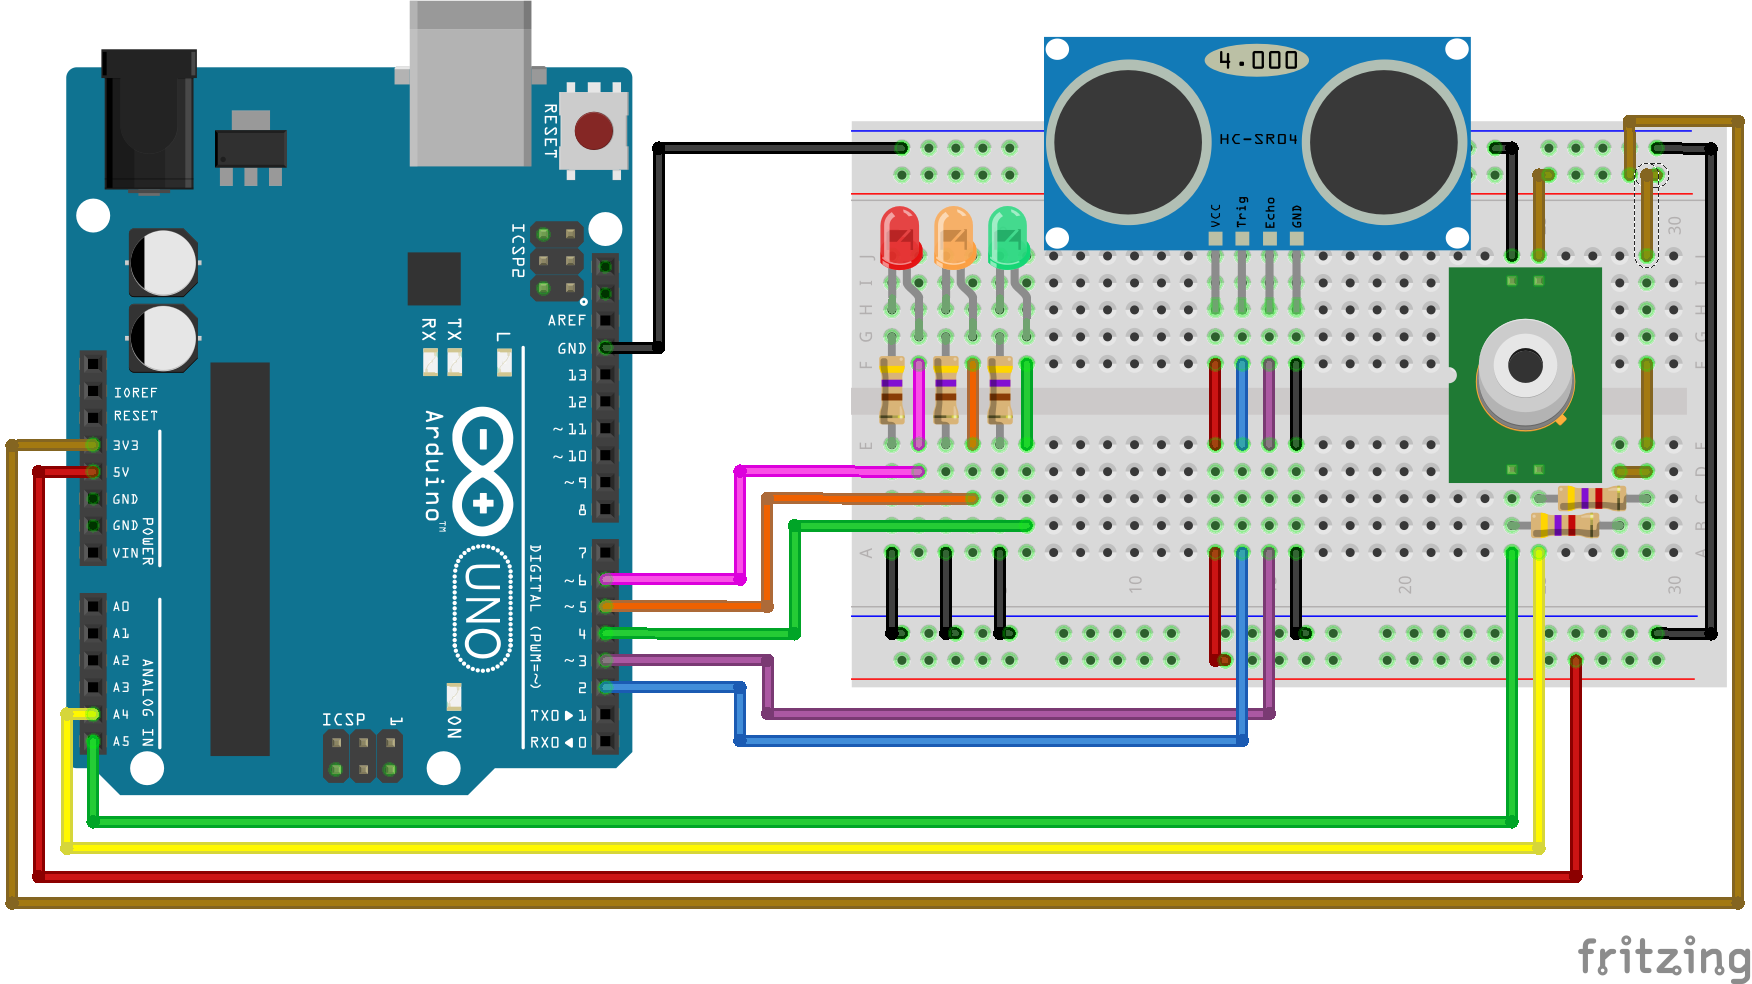
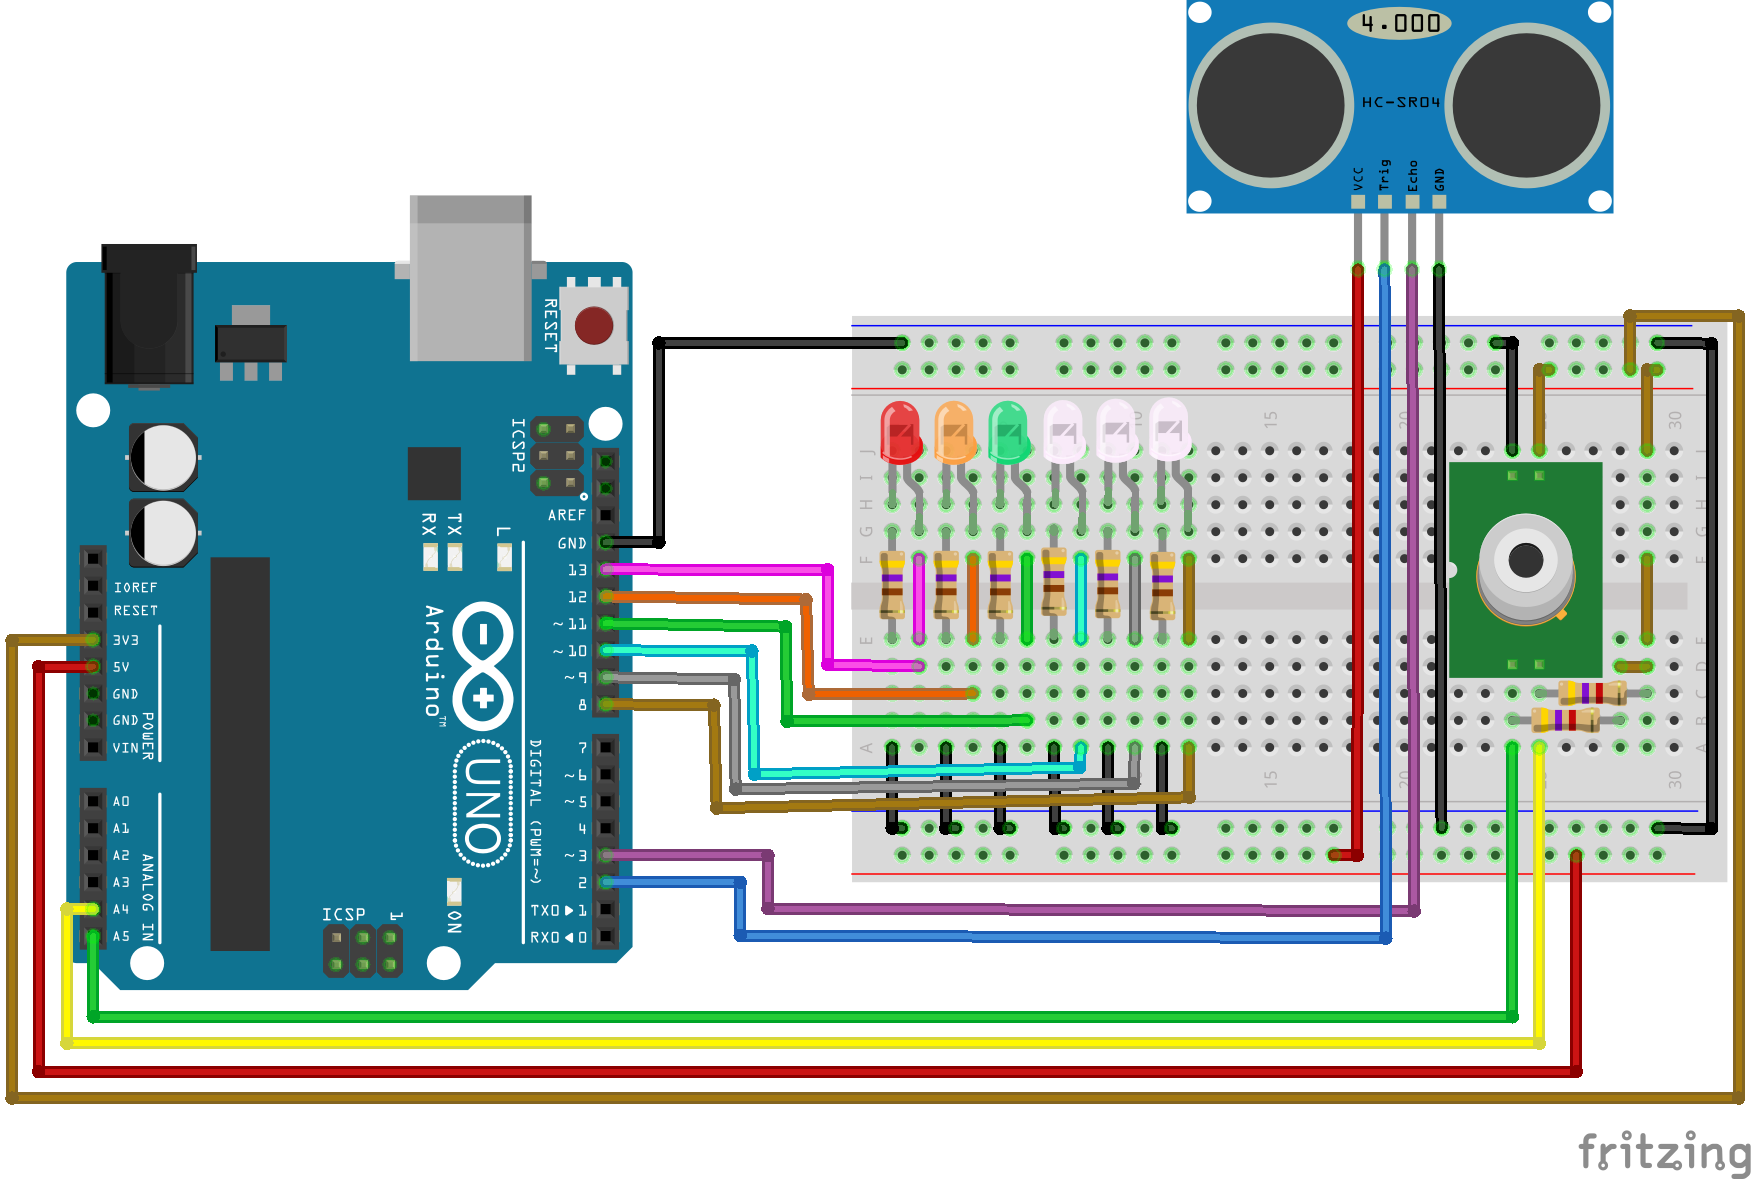
Change pins and parameters according to the prototype (#19)

diff --git a/firmware/temperature_detection/user_config.h b/firmware/temperature_detection/user_config.h
@@ -38,13 +38,13 @@
 #define DISTANCE_INTERVAL           100 // >60 as per Sparkfun HC-SR04 datasheet
 
 // Distances (centimeters)
-#define OFF_DISTANCE                30
-#define DETECTION_DISTANCE          15
-#define THRESHOLD_DISTANCE          3
+#define OFF_DISTANCE                100
+#define THRESHOLD_DISTANCE          7
+#define DETECTION_DISTANCE          3
 
 // Temperatures (celsius degrees)
-#define LIMIT_FEVER                 30
-#define WARNING_FEVER               28
+#define LIMIT_FEVER                 33
+#define WARNING_FEVER               31
 
 // Pins
 #ifndef ULTRASOUND_TRIGGER_PIN
@@ -54,22 +54,22 @@
 #define ULTRASOUND_ECHO_PIN         3
 #endif
 #ifndef TEMPERATURE_LOW_PIN
-#define TEMPERATURE_LOW_PIN         4
+#define TEMPERATURE_LOW_PIN         11
 #endif
 #ifndef TEMPERATURE_MID_PIN
-#define TEMPERATURE_MID_PIN         5
+#define TEMPERATURE_MID_PIN         12
 #endif
 #ifndef TEMPERATURE_HIGH_PIN
-#define TEMPERATURE_HIGH_PIN        6
+#define TEMPERATURE_HIGH_PIN        13
 #endif
 #ifndef DISTANCE_FARTHER_PIN
 #define DISTANCE_FARTHER_PIN        8 // FIXME: why skip the seventh pin?
 #endif
 #ifndef DISTANCE_STOP_PIN
-#define DISTANCE_STOP_PIN           9
+#define DISTANCE_STOP_PIN           10
 #endif
 #ifndef DISTANCE_CLOSER_PIN
-#define DISTANCE_CLOSER_PIN         10
+#define DISTANCE_CLOSER_PIN         9
 #endif
 #ifndef BUTTON_PIN
 #define BUTTON_PIN                  7 // 37 to use BUTTON A on M5StickC
